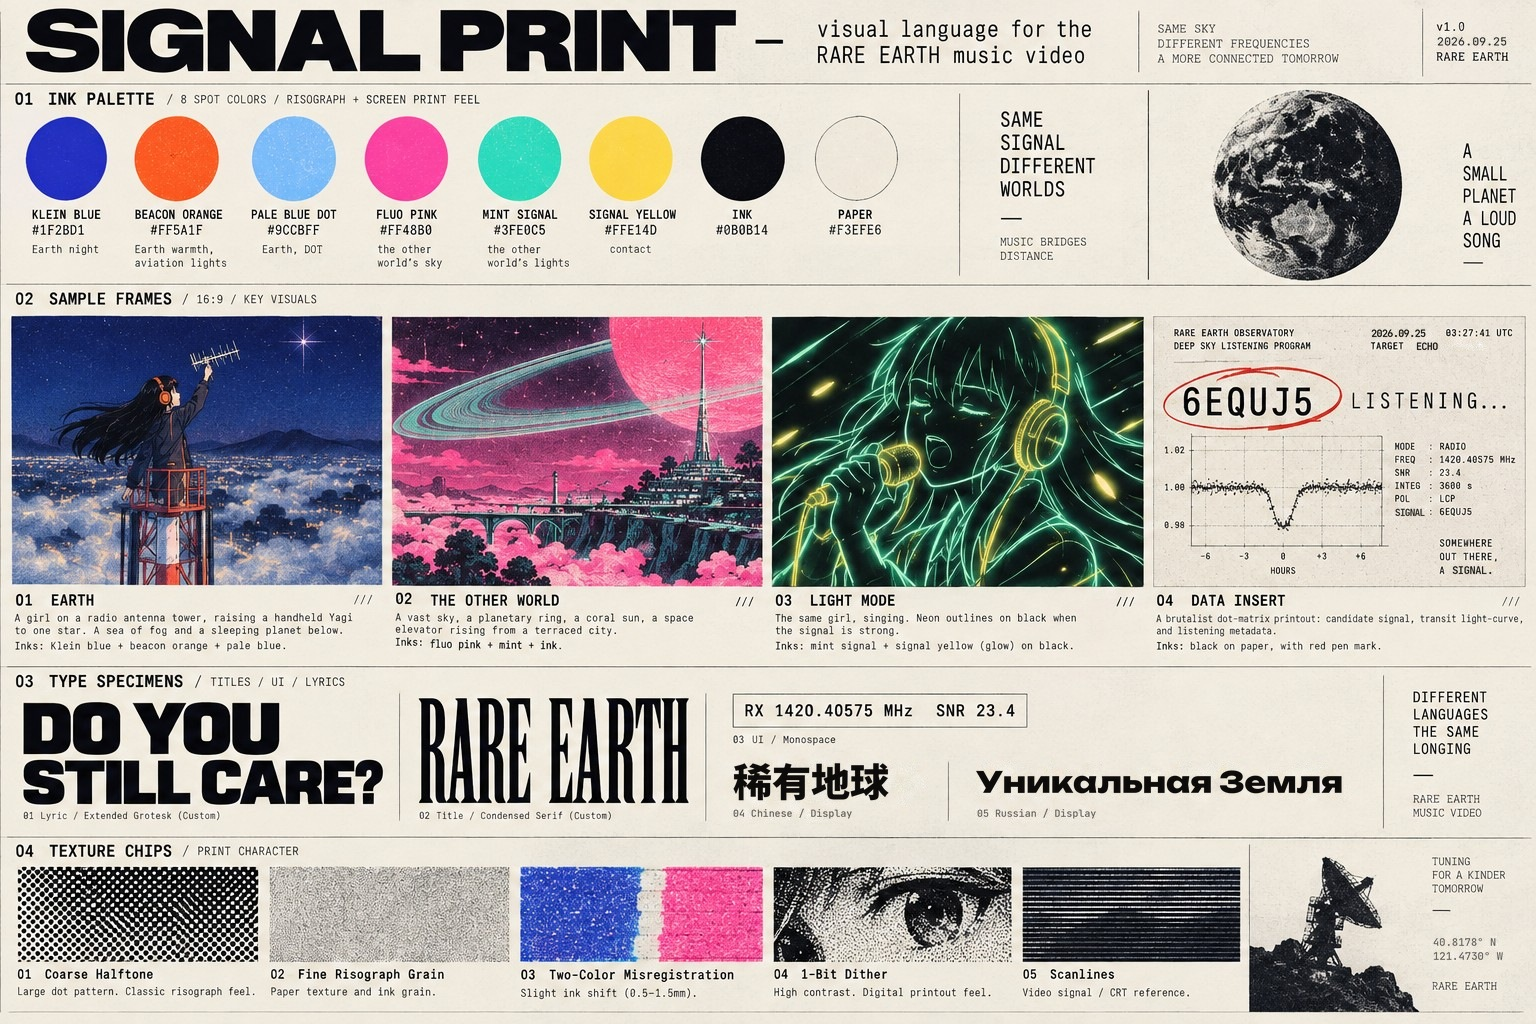
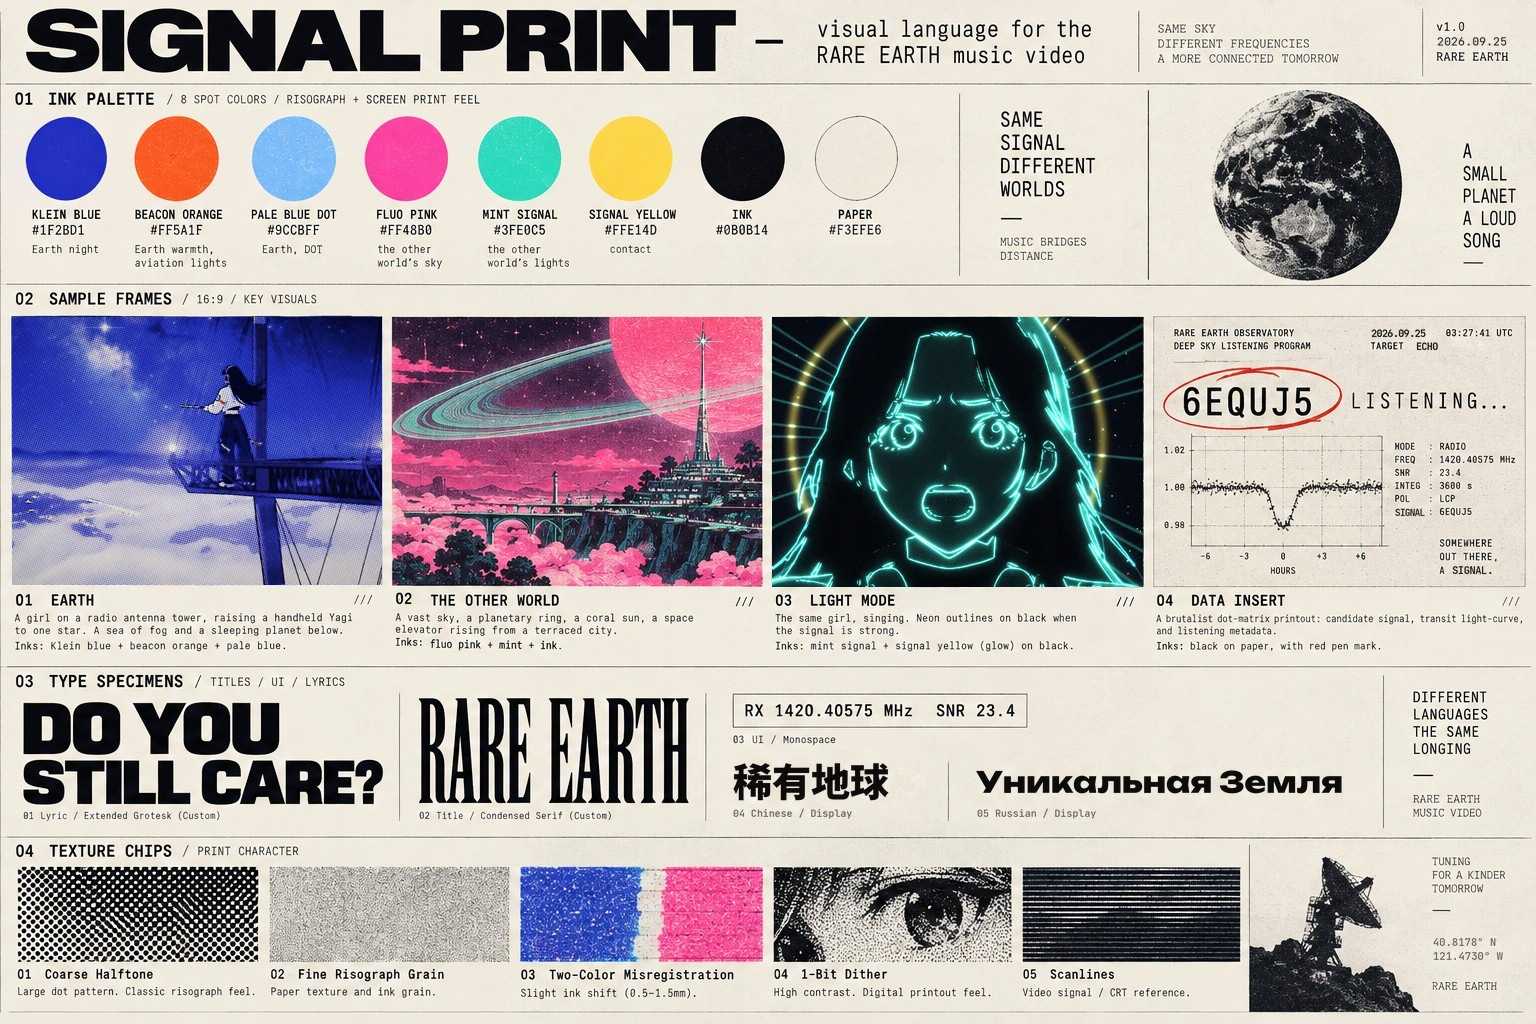
Style boards: DOT sample frames from the video (v3 hair), not the pre-v3 hime cut
The boards' Earth and light-mode samples predated revision v3 and showed the old hime cut with a
blunt fringe. They are now frames of the finished video (0:03.08 and 1:17.54), which is v3 in all
18 DOT takes. fix_sheets.py takes them straight from out/rare_earth_1080p.mp4.

Claude-Session: https://claude.ai/code/session_01TY9sXXzyszHJ26VV7PFVzw

Changed region(s): [[0.0, 0.2812, 0.25, 0.5938], [0.5, 0.3125, 0.75, 0.5938]]

diff --git a/pipeline/sheet_fixes/fix_sheets.py b/pipeline/sheet_fixes/fix_sheets.py
@@ -13,6 +13,7 @@ import os
 import subprocess
 import sys
 
+import cv2
 import numpy as np
 from PIL import Image
 
@@ -34,6 +35,32 @@ def original(name):
 def save(im, name):
     im.save(os.path.join(ROOT, 'design', name), quality=93, optimize=True)
     print('wrote design/' + name)
+
+
+def video_frames(indices):
+    """Frames of the released video (out/rare_earth_1080p.mp4), decoded in order so the indices are exact."""
+    cap = cv2.VideoCapture(os.path.join(ROOT, 'out', 'rare_earth_1080p.mp4'))
+    out, n = {}, 0
+    while len(out) < len(indices):
+        ok, fr = cap.read()
+        if not ok:
+            raise RuntimeError('video ended before frame %d' % max(indices))
+        if n in indices:
+            out[n] = Image.fromarray(cv2.cvtColor(fr, cv2.COLOR_BGR2RGB))
+        n += 1
+    return out
+
+
+# The style boards' sample frames of DOT were drawn before her v3 hairstyle and show the old hime cut (blunt
+# fringe). They are replaced by frames from the finished video, which is all v3: the poster at 0:03.08 (on the
+# tower, Yagi raised to the star, fog below; title gone, first lyric not yet in) and the light-mode close-up at
+# 1:17.54 (singing, mint lines, the yellow glow ring; cropped clear of the lyric on the left).
+EARTH_FRAME, LIGHT_FRAME = 74, 1861
+
+
+def frame_into(im, frame, crop, box):
+    x0, y0, x1, y1 = box
+    im.paste(frame.crop(crop).resize((x1 - x0, y1 - y0), Image.LANCZOS), (x0, y0))
 
 
 def tracking_for(s, target, fontname, cap, **ax):
@@ -140,8 +167,10 @@ def dot_sheet(name):
     save(Image.fromarray(np.clip(a, 0, 255).astype(np.uint8)), name)
 
 
-def style_board():
+def style_board(frames):
     im = original('style_board_signal_print.jpg')
+    frame_into(im, frames[EARTH_FRAME], (280, 100, 1633, 1080), (12, 317, 382, 585))     # 01 EARTH
+    frame_into(im, frames[LIGHT_FRAME], (720, 60, 1920, 933), (772, 317, 1143, 587))     # 03 LIGHT MODE
 
     def mono(x, y, s, pitch, color, wght=420, cap=None):
         # JetBrains Mono advances 0.6 em, capitals 0.73 em; a taller original passes cap and keeps its pitch
@@ -178,9 +207,11 @@ def style_board():
     save(im, 'style_board_signal_print.jpg')
 
 
-def style_board_flat():
+def style_board_flat(frames):
     orig = original('style_board_signal_print_flat.jpg')
     im = orig.copy()
+    frame_into(im, frames[EARTH_FRAME], (60, 100, 1843, 1080), (103, 561, 858, 976))     # a) EARTH, inside the outline
+    frame_into(im, frames[LIGHT_FRAME], (720, 150, 1920, 787), (103, 1044, 858, 1445))   # c) LIGHT MODE
 
     def paper(dst_box, src_xy):
         x0, y0, x1, y1 = dst_box
@@ -225,5 +256,6 @@ if __name__ == '__main__':
     earth_sheet_alt(ata)
     dot_sheet('dot_character_sheet.jpg')
     dot_sheet('dot_character_sheet_v2_hime.jpg')
-    style_board()
-    style_board_flat()
+    frames = video_frames({EARTH_FRAME, LIGHT_FRAME})
+    style_board(frames)
+    style_board_flat(frames)

diff --git a/docs/PROCESS.md b/docs/PROCESS.md
@@ -216,6 +216,11 @@ matched; the artwork is untouched except for the array panels:
   Tower's and are now the Allen Telescope Array's; the title-card specimens are Chinese and Russian, set in the
   fonts the video uses. On the flat board: two hex codes (#1F2BD1, #9CCBFF), the light-mode caption, a
   "monspace" typo and the printout's gibberish lines.
+* Style boards, sample frames: the Earth and light-mode samples were drawn before revision v3 and showed
+  DOT with the old hime cut. They are now frames from the finished video, which is v3 throughout (the poster
+  at 0:03.08 and the neon close-up at 1:17.54). All 18 DOT takes in the edit are v3 (the `hair` tag in
+  `pipeline/seedance_manifest.json`); the only sheets that still show the old cut are the archived earlier
+  revisions, `design/dot_character_sheet_v2_hime.jpg` and `design/dot_character_sheet_alt.jpg`.
 
 Three image runs made the array panel (two GPT Image 2.5, one Nano Banana Pro). Nano Banana drew ordinary
 centre-fed dishes; the first GPT take has the ATA's offset feeds.
